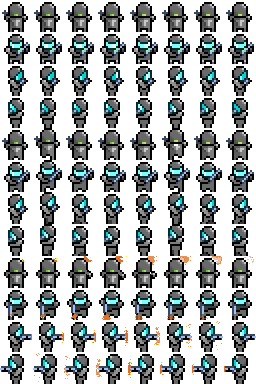
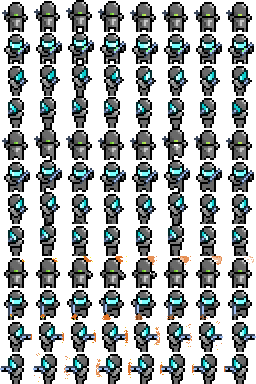
feat: despawning death decals

Changed region(s): [[0.125, 0.0, 0.5, 0.3125]]

diff --git a/MicroMarine/Components/Units/DeadUnit.cs b/MicroMarine/Components/Units/DeadUnit.cs
@@ -1,12 +1,44 @@
 using Microsoft.Xna.Framework;
 using Microsoft.Xna.Framework.Graphics;
-
+using System;
+using Zand;
 namespace MicroMarine.Components.Units
 {
-    class DeadUnit : Decale
+    class DeadUnit : Decale, Zand.IUpdateable
     {
-        public DeadUnit(Texture2D texture, Vector2 entityOffset) : base(texture, entityOffset)
+        private Rectangle? _srcRect;
+        private float _duration;
+        private double _elapsedTime;
+
+        public DeadUnit(Texture2D texture, Vector2 entityOffset, Rectangle? frame) : base(texture, entityOffset)
         {
+            _srcRect = frame;
+            _duration = 30;
+            _elapsedTime = 0;
+        }
+
+        public void Update()
+        {
+            _elapsedTime += Time.DeltaTime;
+            if (_elapsedTime > _duration)
+            {
+                Entity.Destroy();
+            }
+        }
+
+        public override void Draw(SpriteBatch sbatch)
+        {
+            sbatch.Draw(
+                texture,
+                Entity.Position,
+                _srcRect,
+                Color.White,
+                0,
+                _entityOffset,
+                1,
+                SpriteEffects.None,
+                _layer
+             );
         }
     }
 }

diff --git a/MicroMarine/Components/Units/Marine.cs b/MicroMarine/Components/Units/Marine.cs
@@ -91,8 +91,39 @@ namespace MicroMarine.Components
 
         public override void OnRemovedFromEntity()
         {
+            var deadMarineSheet = Entity.Scene.Content.GetContent<Texture2D>("deadMarineSheet");
+            var spriteSheet = new SpriteSheet(deadMarineSheet, 32, 32);
+            int index = 1;
+
+            var mover = Entity.GetComponent<Mover>();
+
+            if (mover.Orientation == UnitDirection.North)
+            {
+                index = 0;
+            }
+
+            if (mover.Orientation == UnitDirection.South)
+            {
+                index = 1;
+            }
+
+            if (mover.Orientation == UnitDirection.East)
+            {
+                index = 2;
+            }
+
+            if (mover.Orientation == UnitDirection.West)
+            {
+                index = 3;
+            }
+
+
+            Rectangle frame = spriteSheet.GetFrame(index);
+
+
+            
             var entity = Scene.CreateEntity("deadUnit", Entity.Position);
-            entity.AddComponent(new DeadUnit(Scene.Content.GetContent<Texture2D>("deadMarine"), new Vector2(15, 0)));
+            entity.AddComponent(new DeadUnit(deadMarineSheet, new Vector2(15, 0), frame));
         }
 
         private void AddAllegiance()

diff --git a/MicroMarine/Scenes/SampleScene.cs b/MicroMarine/Scenes/SampleScene.cs
@@ -40,7 +40,7 @@ namespace MicroMarine.Scenes
             Content.LoadTexture("smallUnitSelect", "Content/small_unit_select.png");
             Content.LoadTexture("marineSheet", "Content/marineSheet32.png");
             Content.LoadTexture("blantSheet", "Content/blant_sheet.png");
-            Content.LoadTexture("deadMarine", "Content/marine_dead.png");
+            Content.LoadTexture("deadMarineSheet", "Content/dead_marine_sheet.png");
             Content.LoadTexture("deadBlant", "Content/blant_dead.png");
 
             var defaultCursorTexture = Content.LoadTexture("cursor", "Content/cursor.png");

diff --git a/MicroMarine/Components/Units/Blant.cs b/MicroMarine/Components/Units/Blant.cs
@@ -86,7 +86,7 @@ namespace MicroMarine.Components.Units
         public override void OnRemovedFromEntity()
         {
             var entity = Scene.CreateEntity("deadUnit", Entity.Position);
-            entity.AddComponent(new DeadUnit(Scene.Content.GetContent<Texture2D>("deadBlant"), new Vector2(15, 10)));
+            entity.AddComponent(new DeadUnit(Scene.Content.GetContent<Texture2D>("deadBlant"), new Vector2(15, 10), null));
         }
     }
 

diff --git a/MicroMarine/Components/Units/Decale.cs b/MicroMarine/Components/Units/Decale.cs
@@ -6,8 +6,8 @@ namespace MicroMarine.Components.Units
 {
     class Decale : Component, IRenderable
     {
-        private Texture2D texture;
-        private Vector2 _entityOffset;
+        protected Texture2D texture;
+        protected Vector2 _entityOffset;
         protected float _layer;
 
         public Decale(Texture2D texture, Vector2 entityOffset)
